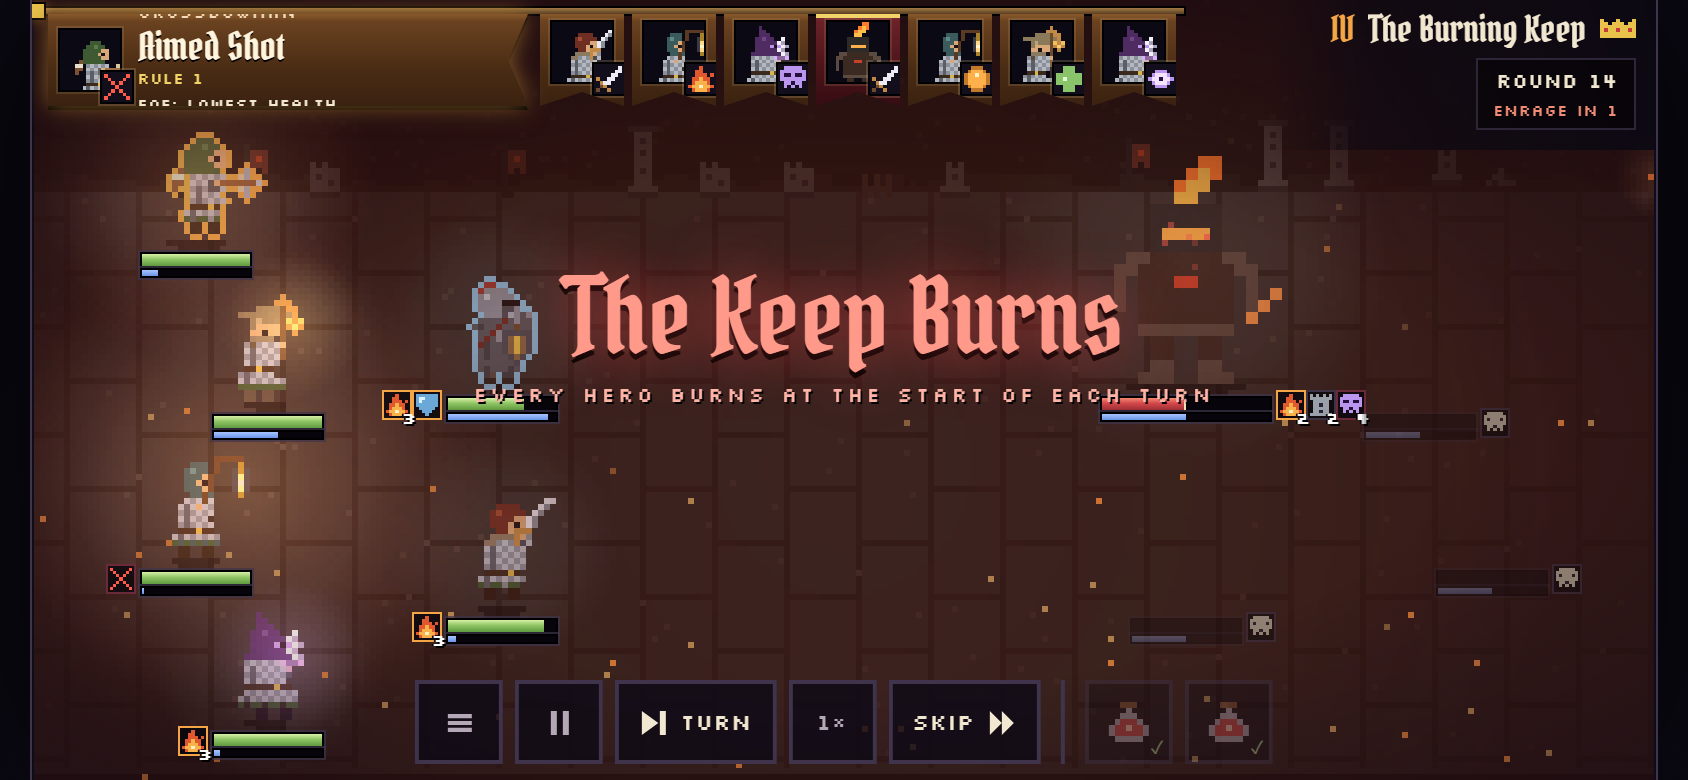
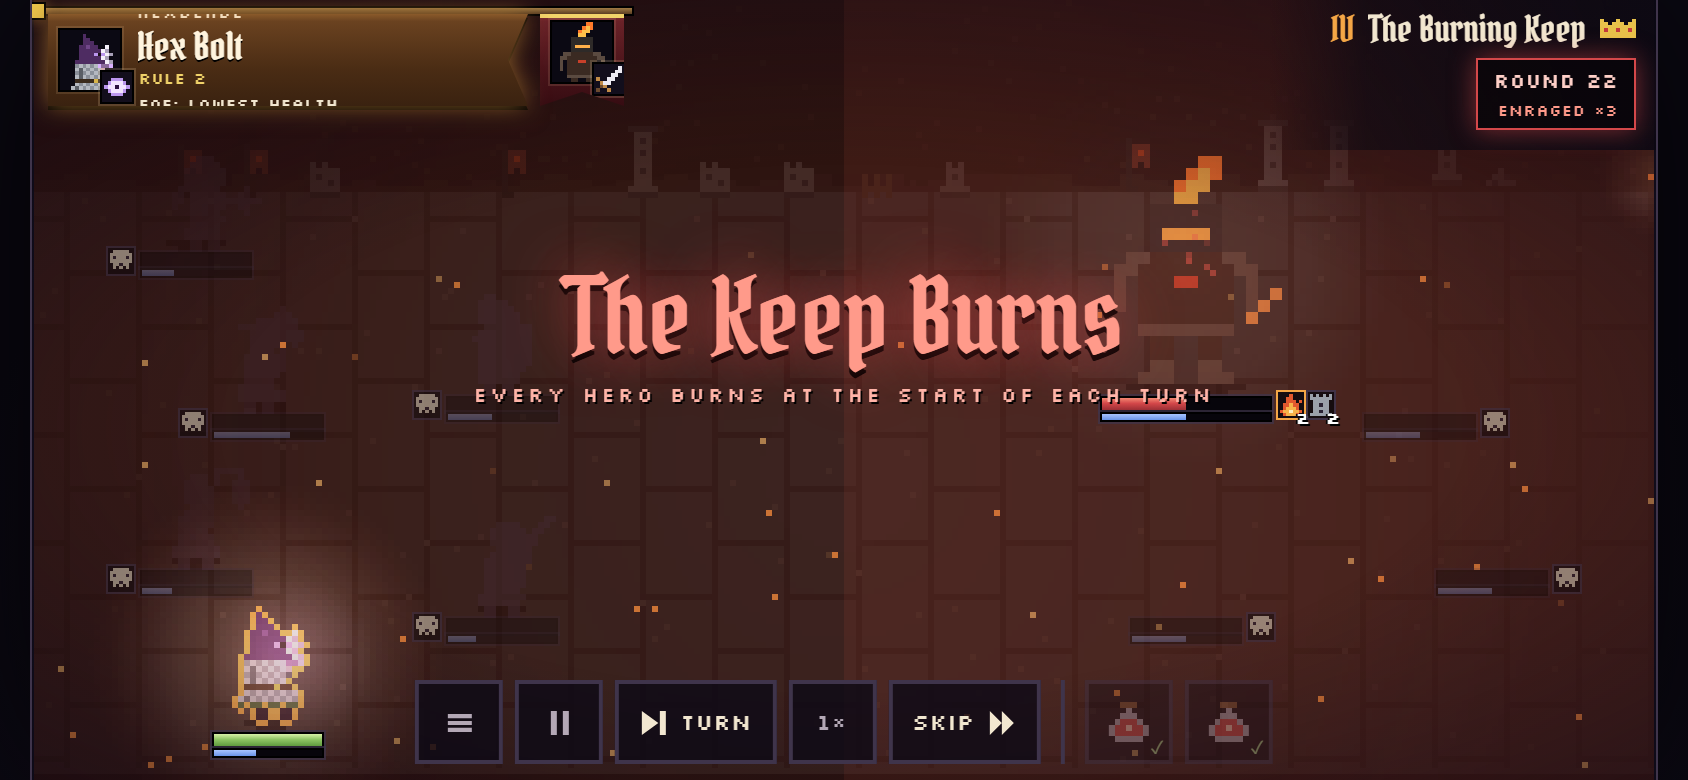
Regions II–V: align with the home base, re-shoot the screenshots
- Classes join the recruit board as their region opens (the home base's
  CLASS_JOINS); the road now records them on the boss that opens it.
- Tactician II is the home base's Tactician at level 3: Base.teach also teaches
  the Gather action with it, and the Move action with Tactician I.
- The map uses the home base's material icons.
- docs/campaign-spec.md: the step 7a notes match.
- The screenshots are taken on the merged game (a new game, then the party).

diff --git a/docs/campaign-spec.md b/docs/campaign-spec.md
@@ -9,7 +9,7 @@ Draft 4. It follows `docs/design.md` (the 2026-11-04 update), which stays the so
 - **The softened cliff:** past level 10 a hero level adds only about 2% to a hero's power, so most later walls move about 5–15 points a level, more where a skill point or a threshold lands (multiples of 5, and 30, 50, 80, 100). Section 5.6 has the numbers. The lever is steeper hero growth per level (build step 3), not the foes, so this build reports it and leaves it to you.
 - **Numbers moved from section 4.3's sketch** to hit the targets. The built level-1 stats are in section 6, and the skills that changed are listed in section 9.
 - **The Mourner's Dirge never fired in build step 6:** its id clashed with the Bellringer's Dirge passive, which replaced it. It works now, at +15% damage instead of +30%, so Region I keeps step 6's balance.
-- **The Move action** (Tactician I, from 1-11) and **the Gather action** (Tactician II, from 2-1) are built, so a hero Lured out of their row can walk back.
+- **The Move action** (Tactician I, from 1-11) and **the Gather action** (Lesson II, at the home base's Tactician level 3) are built, so a hero Lured out of their row can walk back.
 
 **What changed in draft 3:** every open question is now settled (section 9). The coordinator decided them overnight, and they're marked for your review.
 - Closing the app brings the party home after the current battle. Offline gains come only from home-base buildings.
@@ -888,8 +888,8 @@ Times assume about 1–2 minutes per stage, including the rewards and the walk *
 1. **Foe Health from level 50** steps up ×1.5, rising to ×2 at 100 (section 3.1).
 2. **The cliff past Region I** is reported, not forced: most later walls move 5–15 points a level (section 5.6 and the PR's report). Making levels matter more there needs steeper hero growth per level.
 3. **The Mourner's Dirge** gives +15% damage, not +30%, now that it works.
-4. **Who joins the recruit board, and when:** the Barber-Surgeon at 2-4 (the first Silent Sister), the Bellringer at 2-5 (three Bell Wraiths), the Duellist when the Drowned Bishop falls (2-17), the Cutpurse at 3-9, and the Alchemist when the Antlered One falls (3-17).
-5. **Tactician II** comes with 2-1's first clear (its lesson's conditions and the Gather action), until the home base turns it into the Tactician's third level. The Move action comes with Tactician I.
+4. **Who joins the recruit board, and when:** as the home base built it, each class joins when its region opens: the Barber-Surgeon and the Bellringer when the Sexton falls, the Duellist and the Cutpurse when the Drowned Bishop falls, and the Alchemist when the Antlered One falls. The boss's first clear lists them.
+5. **Tactician II** is the home base's Tactician at level 3 (Lesson II), and it now brings the Gather action too. The Move action comes with Tactician I at 1-11.
 6. **The region's buildings** come with the boss before it: the Masters' Hall and Shrine with the Sexton, the Whetstone and Ossuary with the Drowned Bishop, and the Hexing Stone and Bell Tower with the Antlered One. A save past the Sexton gets the first two when it loads.
 7. **Skills tuned from section 4.3:** Toll 0.25× (from 0.5×) and 30 mana, and it pushes each turn back 20%; the Drowned Hymn heals 0.8×; Burst 0.8×; Pack Tear 0.8×, +15% per other wolf; Gallows Drop 1.2×; Siege Shot 2.4×; Kiln Blast 1.3×; Rite of Ash heals 0.5×; the Herald's Doom ticks 0.45×; the Kingsguard's Halberd 1.3×; the Old Growth heals 1.5% a turn; Drain the Font heals 1.2% of its health per 10 mana; the Court of Shades calls one shade at a time, in the Hollow King's first phase only (his second swaps it for Snuff the Light); Long Live the King Dooms at 0.2× a tick.
 8. **Formations:** some rich and late stages field 5 foes, not 6, and Region I's undead lead the Drowned Chapel's front row at first.
